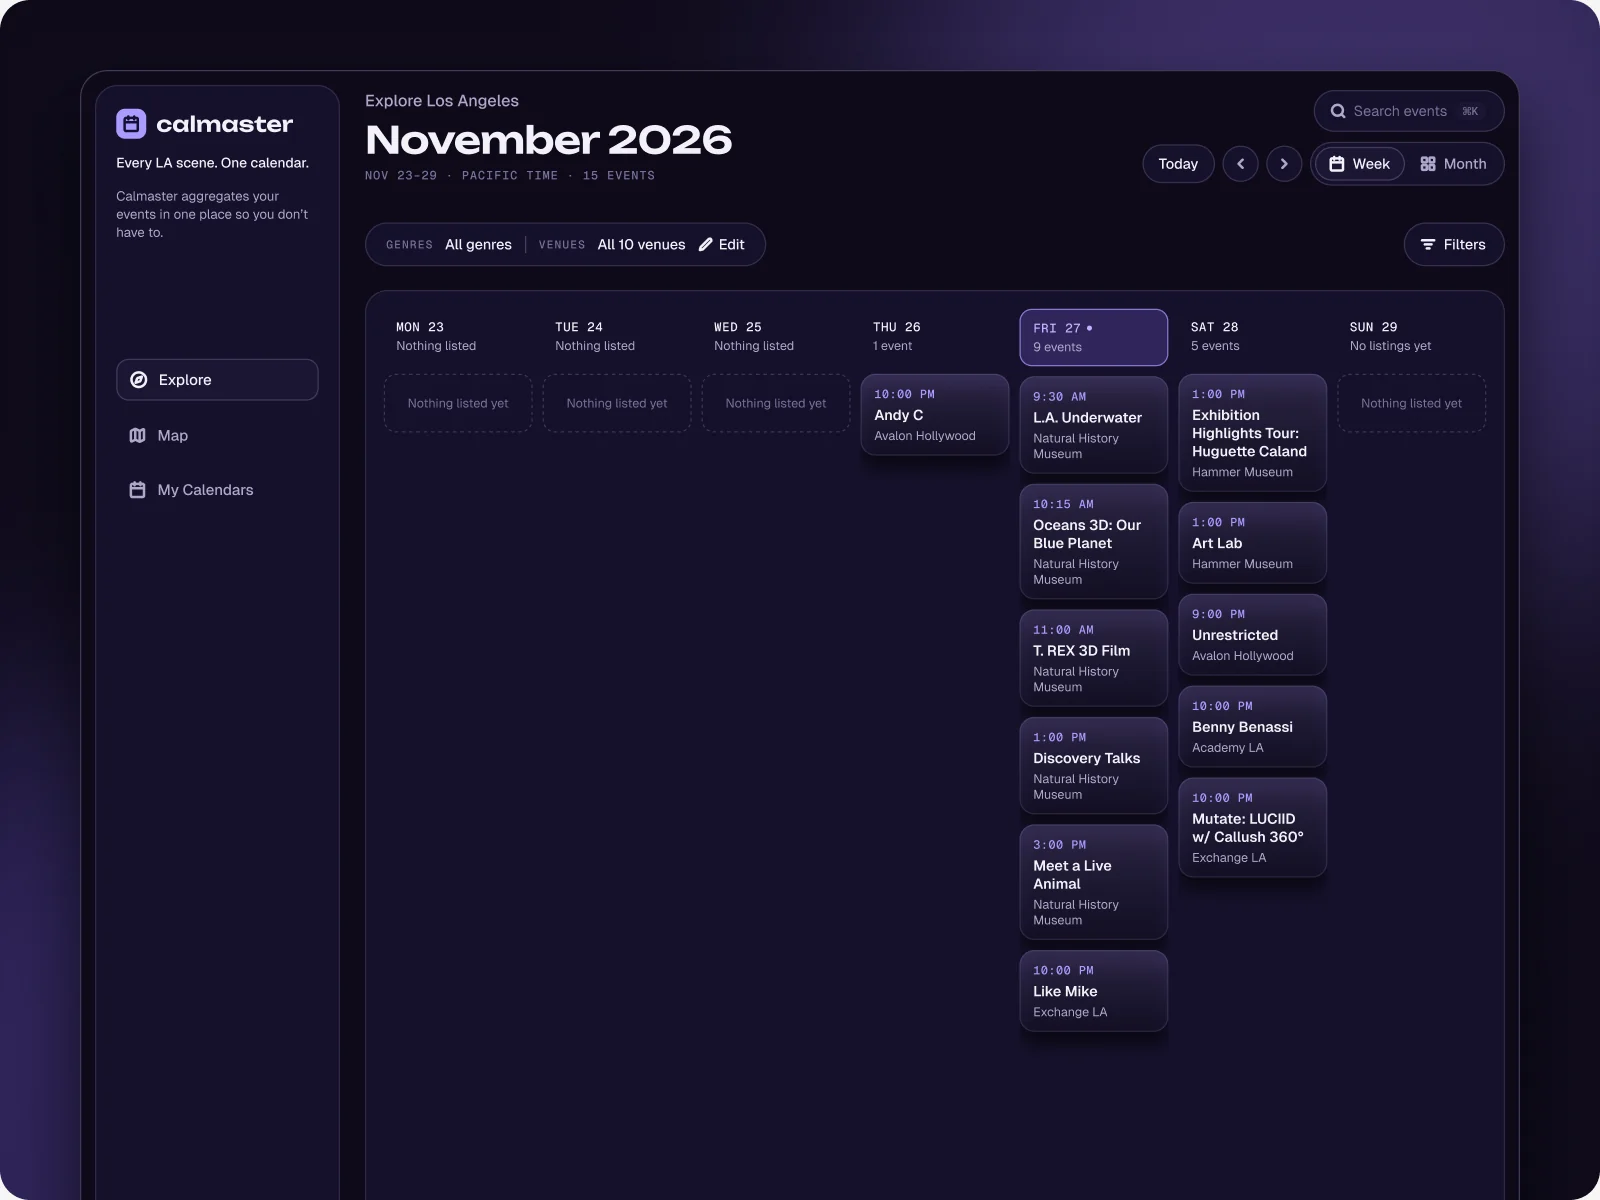
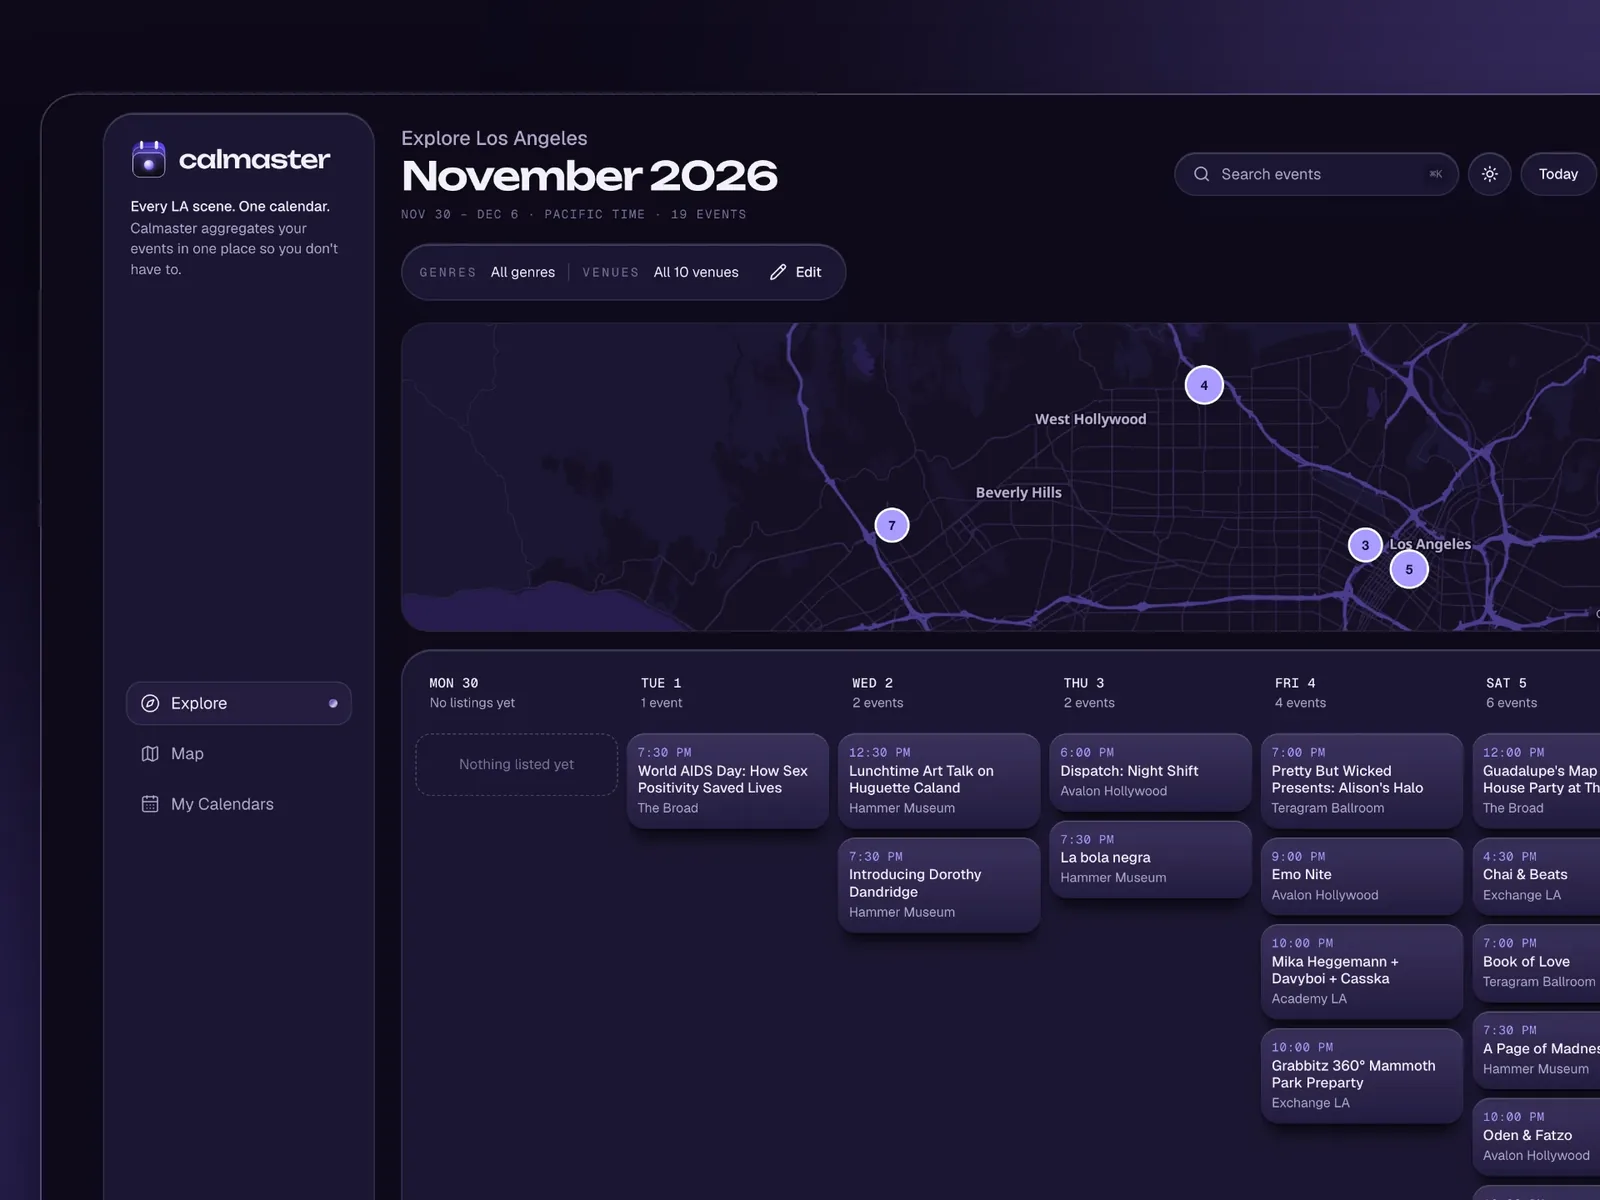
Show CalMaster map view on work card
Swap the card image from the week-only view to the Explore view with the
LA venue map, cropped from the case study cover. Update alt text.

Claude-Session: https://claude.ai/code/session_01Tcn19ZjEpoD4mYZ176xwTV

diff --git a/lib/site.ts b/lib/site.ts
@@ -60,7 +60,7 @@ export const projects: Project[] = [
     featured: true,
     image: {
       src: "/work/calmaster/card.webp",
-      alt: "CalMaster week view of LA events, Nov 23 to 29",
+      alt: "CalMaster Explore view: LA venue map above a week of events, Nov 30 to Dec 6",
       width: 1600,
       height: 1200,
     },
